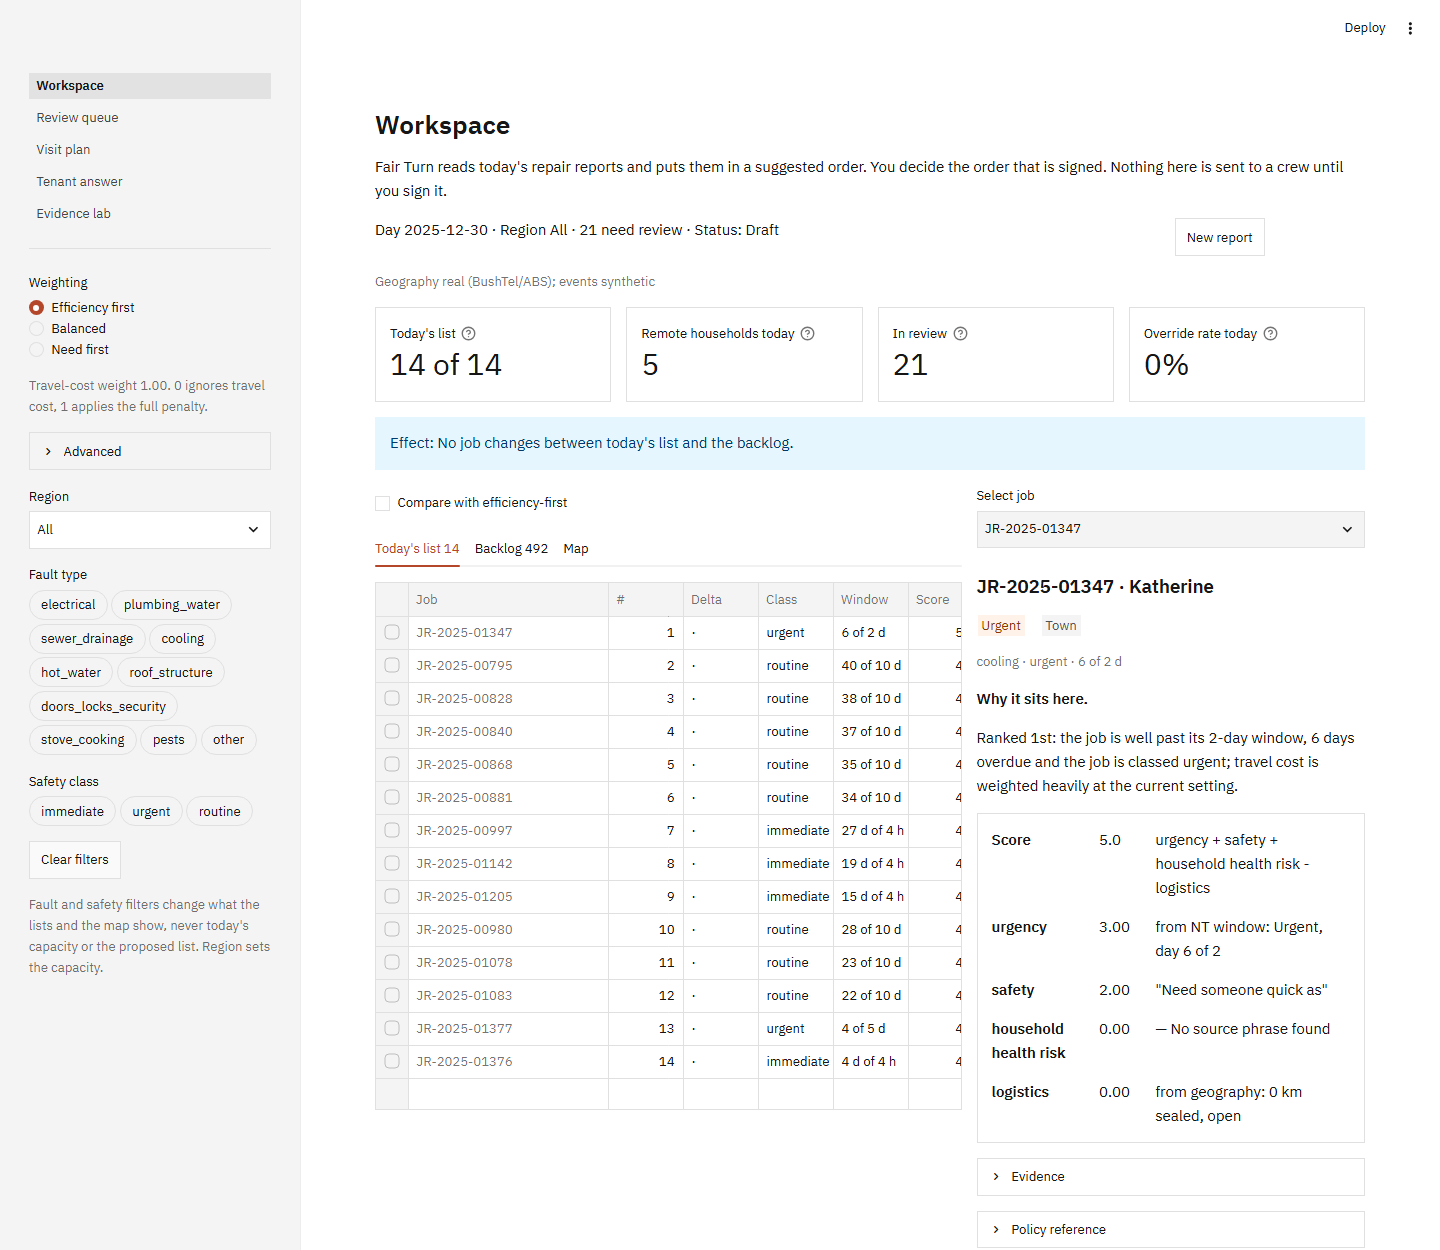
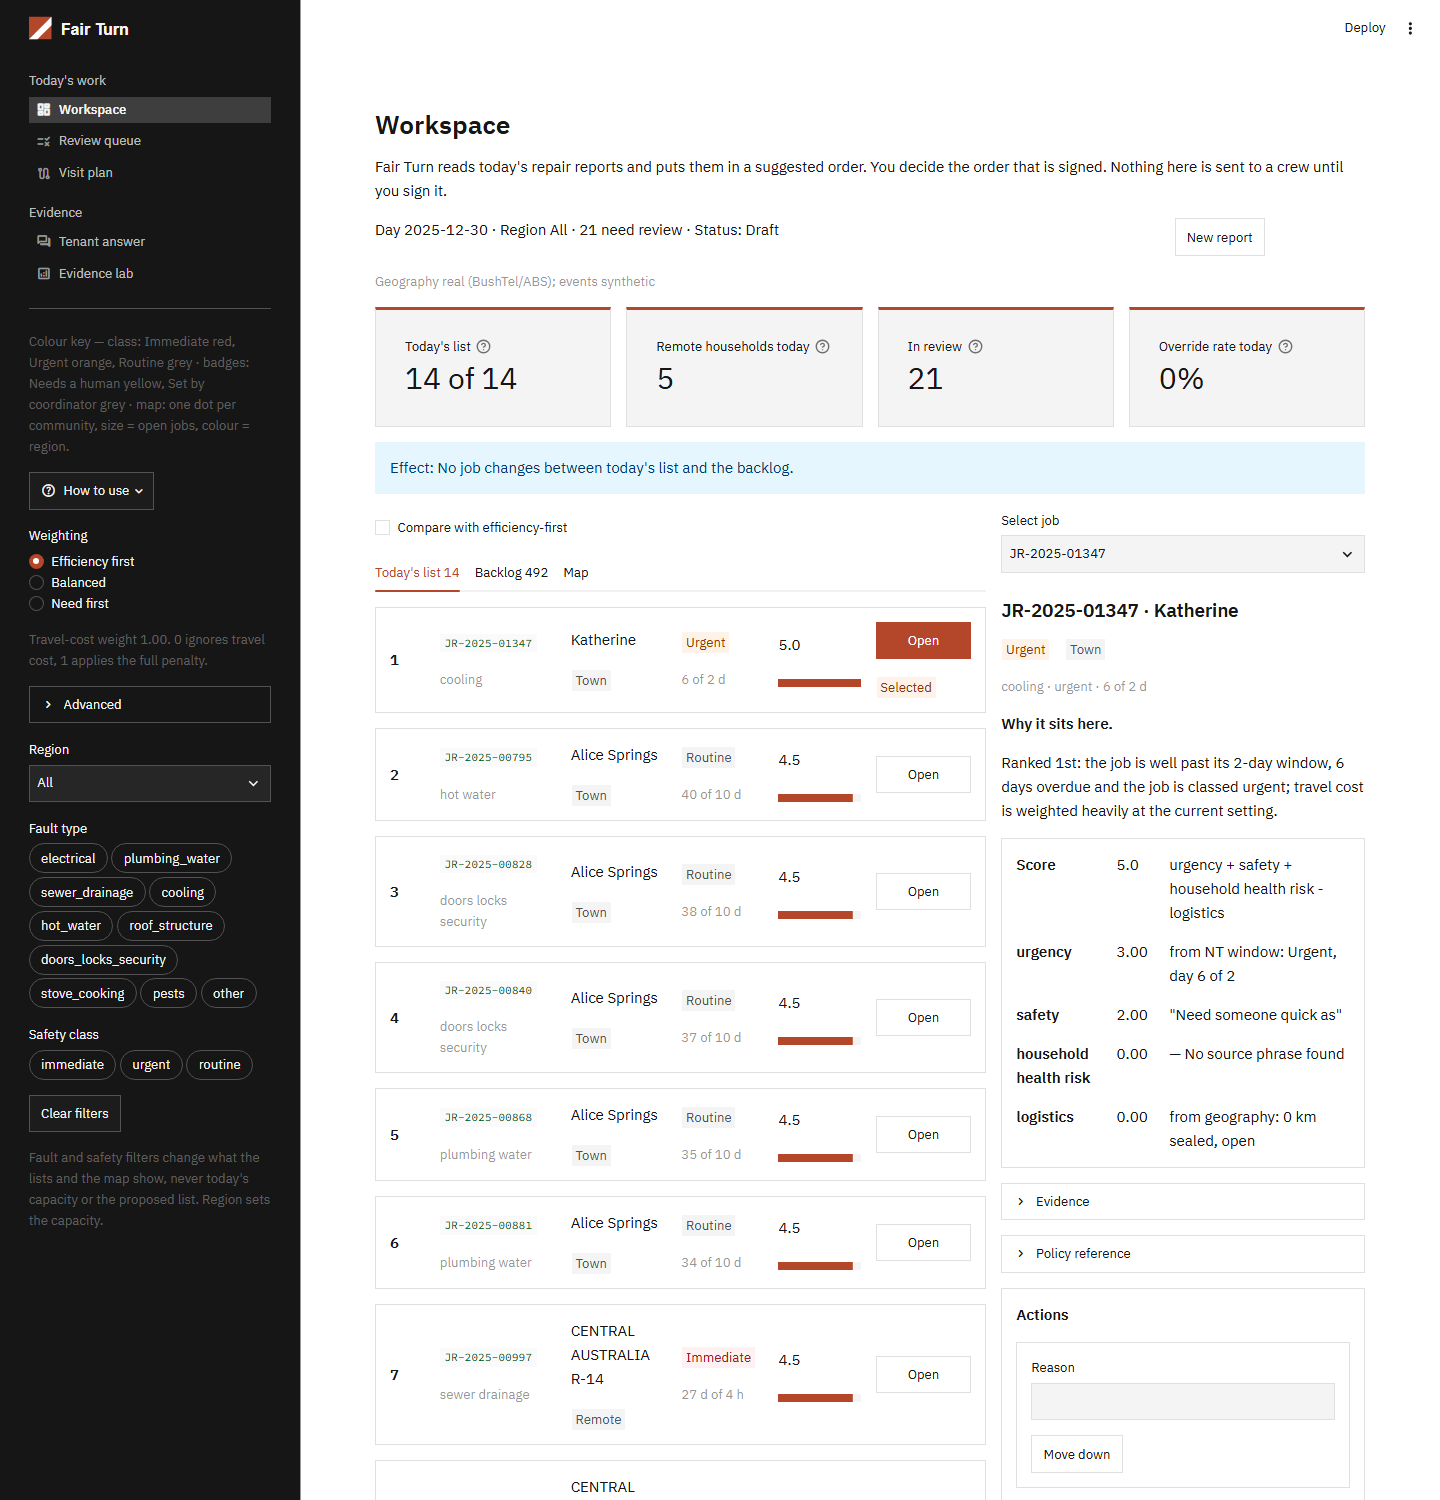
Record presentation wave 2 and refresh screenshots

diff --git a/BACKLOG.md b/BACKLOG.md
@@ -70,3 +70,10 @@ word-based (non-semantic) limits.
 2026-09-14 - PRD open question 7 - WCAG 2.1 versus 2.2 AA as the claimed target; the DTA page needs a human read. Until then the report says "designed against WCAG 2.1 AA".
 2026-09-14 - Task-22 - `tests/test_workspace_components.py` asserts only that the deck proto carries a `selection_mode`, not that it is single-object; a mutation to multi-object stays green. Matches the DoD wording; tighten if the selection mode ever matters to a test.
 2026-09-14 - orchestration - The Codex sandbox leaves ACL-locked `.pytest_cache` folders in lane worktrees and once locked `%TEMP%\pytest-of-TARIK`, which turned every gate on the machine red; `codex-bee.ps1` now points TMPDIR at a lane folder and `integrate.sh` gives the main gate its own temp root. Locked leftovers under `.lanes/fair-turn/task-*` need `takeown` from an elevated shell.
+
+2026-09-14 RESOLVED - presentation wave 2 (Tasks 45-50, Claude worktree bees, main cdc77d4) - today's list as bordered job rows with Open buttons (the 1440 px column-scroll item above is moot: the backlog table keeps the scroll, today's list no longer has one), dark sidebar with wordmark and Material icons, count labels on map markers, review-queue reason chips and templated clarification, intake provider selectbox and example reports, `docs/user-guide.md` with a sidebar How-to-use popover.
+2026-09-14 - Task-47 - The clarification draft opens from an `st.expander`, not the button the task described: a button toggle needs session state and `tests/test_app_smoke.py::test_no_page_reads_session_state` forbids it in page bodies. Accepted; the state seam could gain a `get_clarifying_job` setter if the button feel matters.
+2026-09-14 - Task-46 - Sidebar `borderColor` is `#525252` (nearest token) because `#393939` is not in `tokens.json`; add the Carbon gray-80 token if the hairline looks too heavy.
+2026-09-14 - Task-49 - At NT zoom the Top End markers overlap (max 14 px each); one zoom step separates them. A region-level cluster at zoom < 5 would need a second layer and a pick rule; not built.
+2026-09-14 - orchestration - Agent-tool worktrees (`isolation: worktree`) were created from a stale commit (5080641); every bee brief must start with `git reset --hard <main sha>`. `.lanes/fair-turn/integrate_sha.sh NN SHA "msg"` integrates a commit that already exists in the repo.
+
